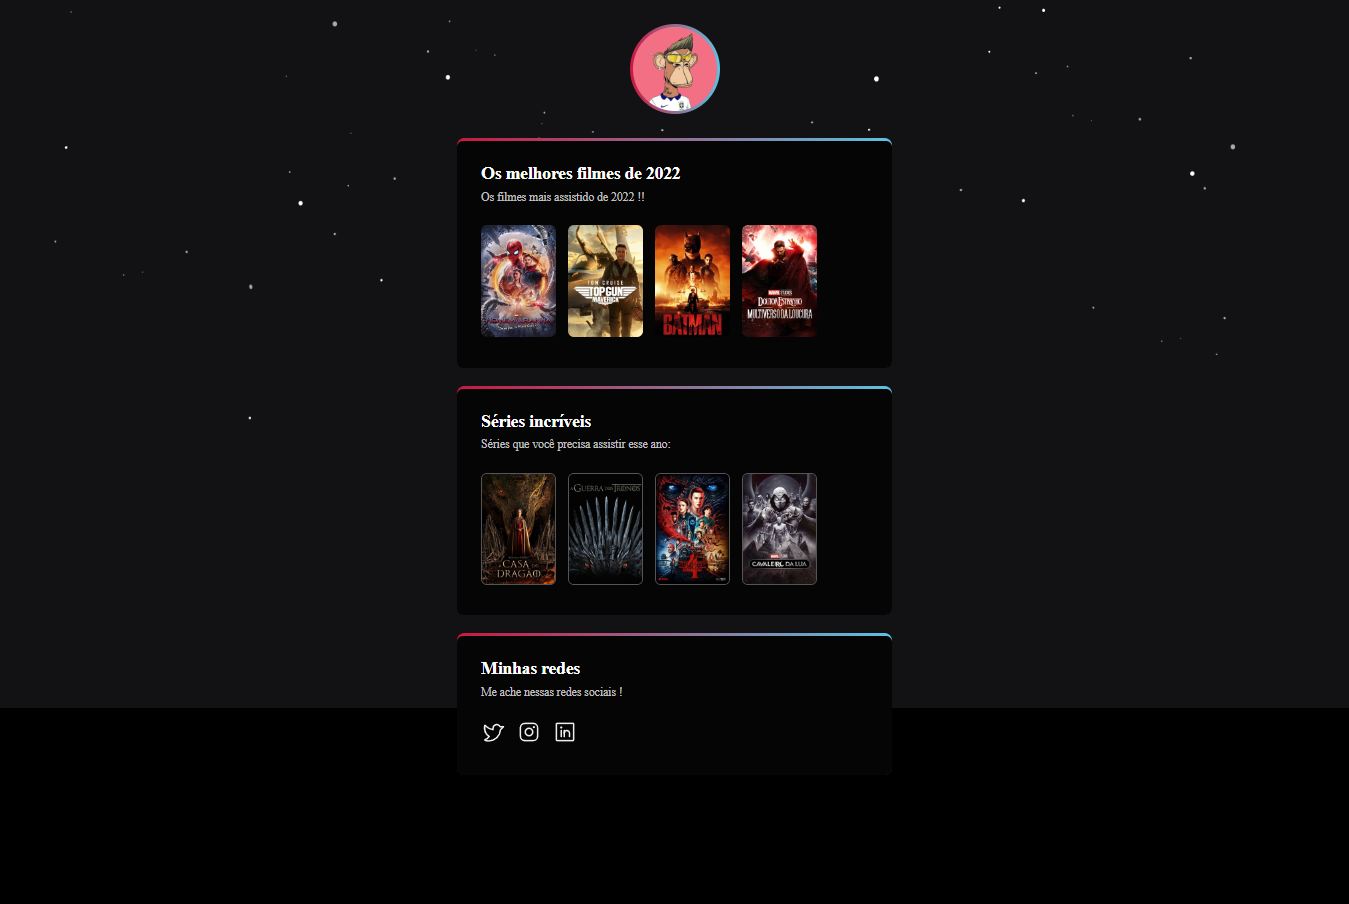
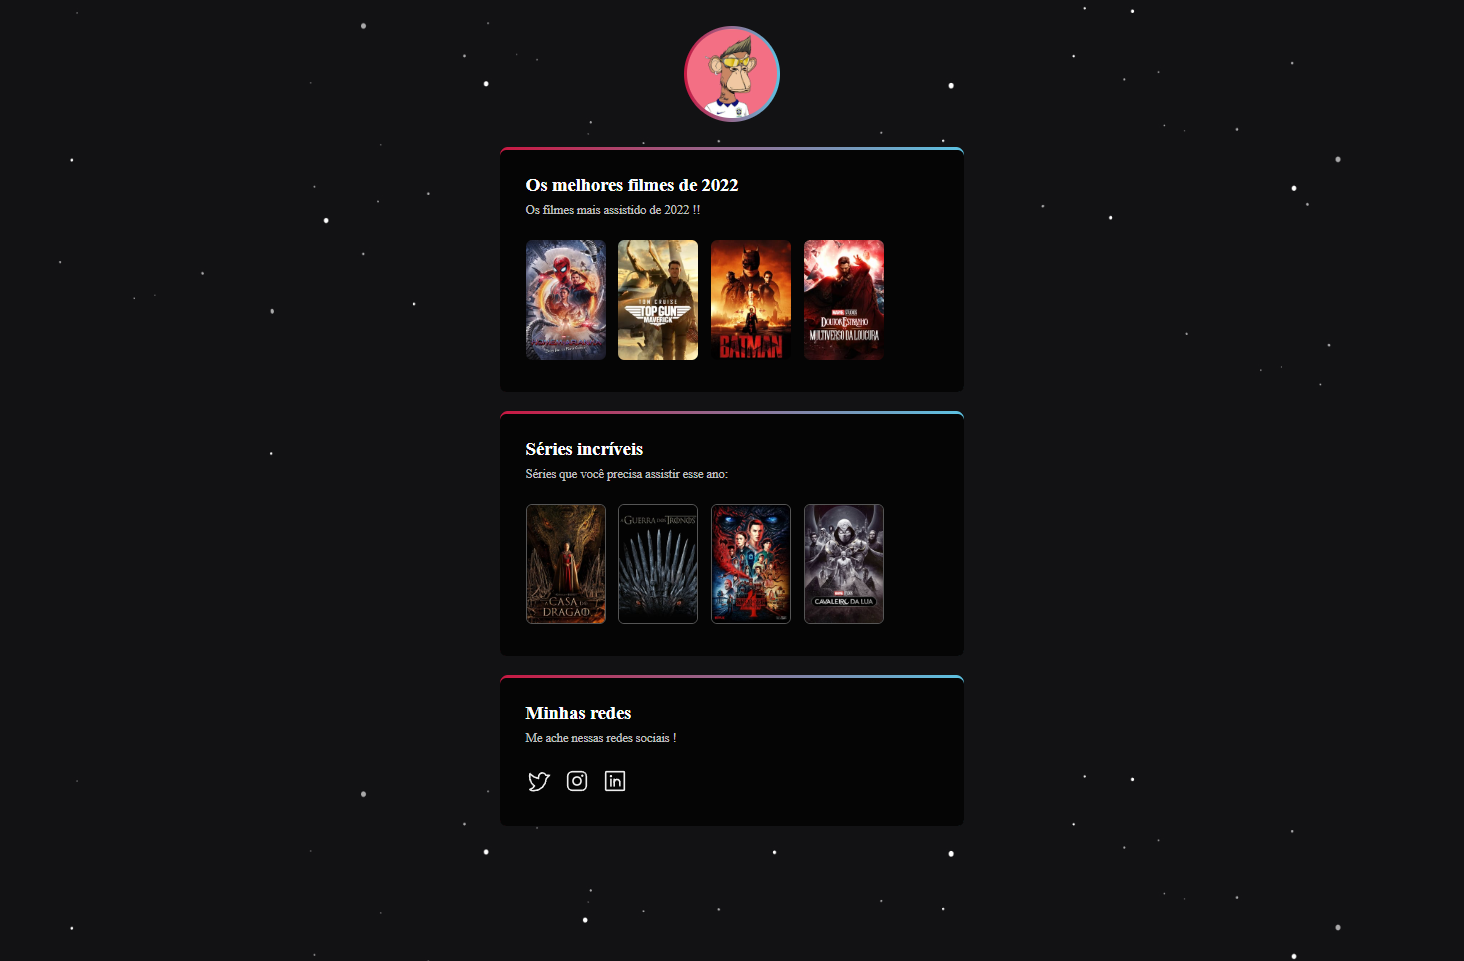
README

diff --git a/style.css b/style.css
@@ -12,8 +12,8 @@ body {
     background-image: url(./assets/Fundo.jpg);
     background-position: top center;
     background-size: 100% auto;
-    background-repeat: no-repeat;
-    background-color: #000000;
+    background-repeat: initial;
+    background-color: #1E1E1E;
 }
 
 body * {

diff --git a/README.md b/README.md
@@ -1,3 +1,20 @@
 # Projeto-Filmes&Séries
 
 ![preview](./.github/preview.png)
+
+Esse projeto foi um desafio da Rocketseat
+
+
+## 💻 Tecnologias
+
+- HTML
+- CSS
+- Git e Github
+
+## Desafios 
+
+Esse projeto foi um desafio interessante para mim, pois fiz tudo sozinho com um embasamento no meu projeto anterior "NLW eSports - Trilha Explorer", ainda estou aprendendo e me adaptando ao HTML, CSS, Git e Github. 
+
+## ☎ Contato
+
+E-mail: contatocaioguimaraess@gmail.comA
